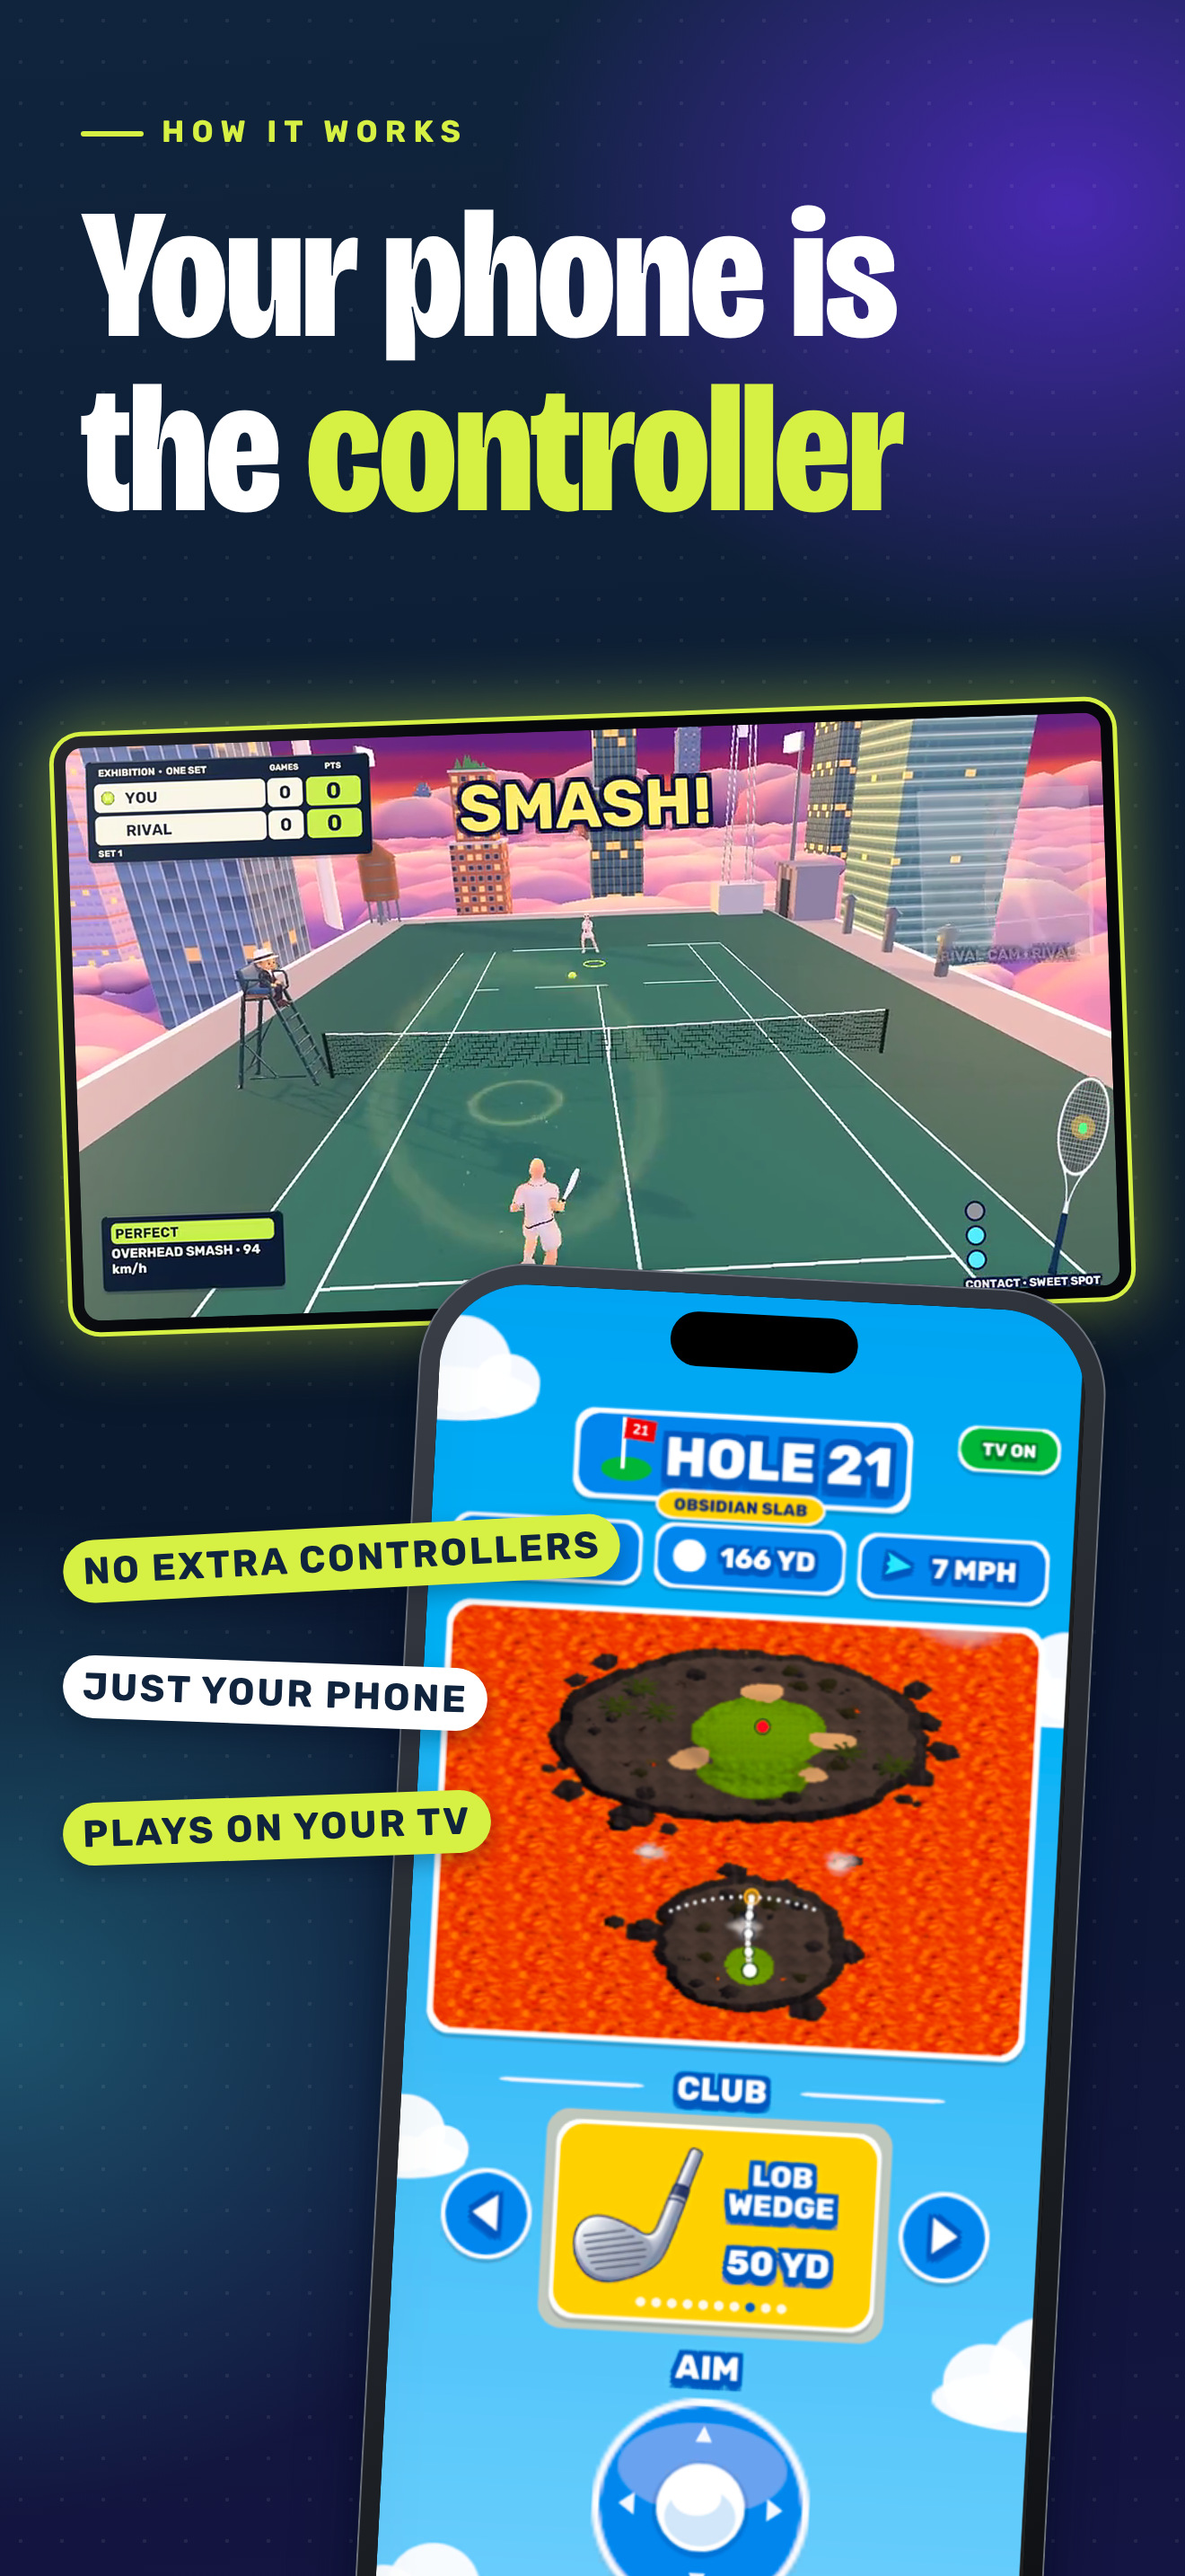
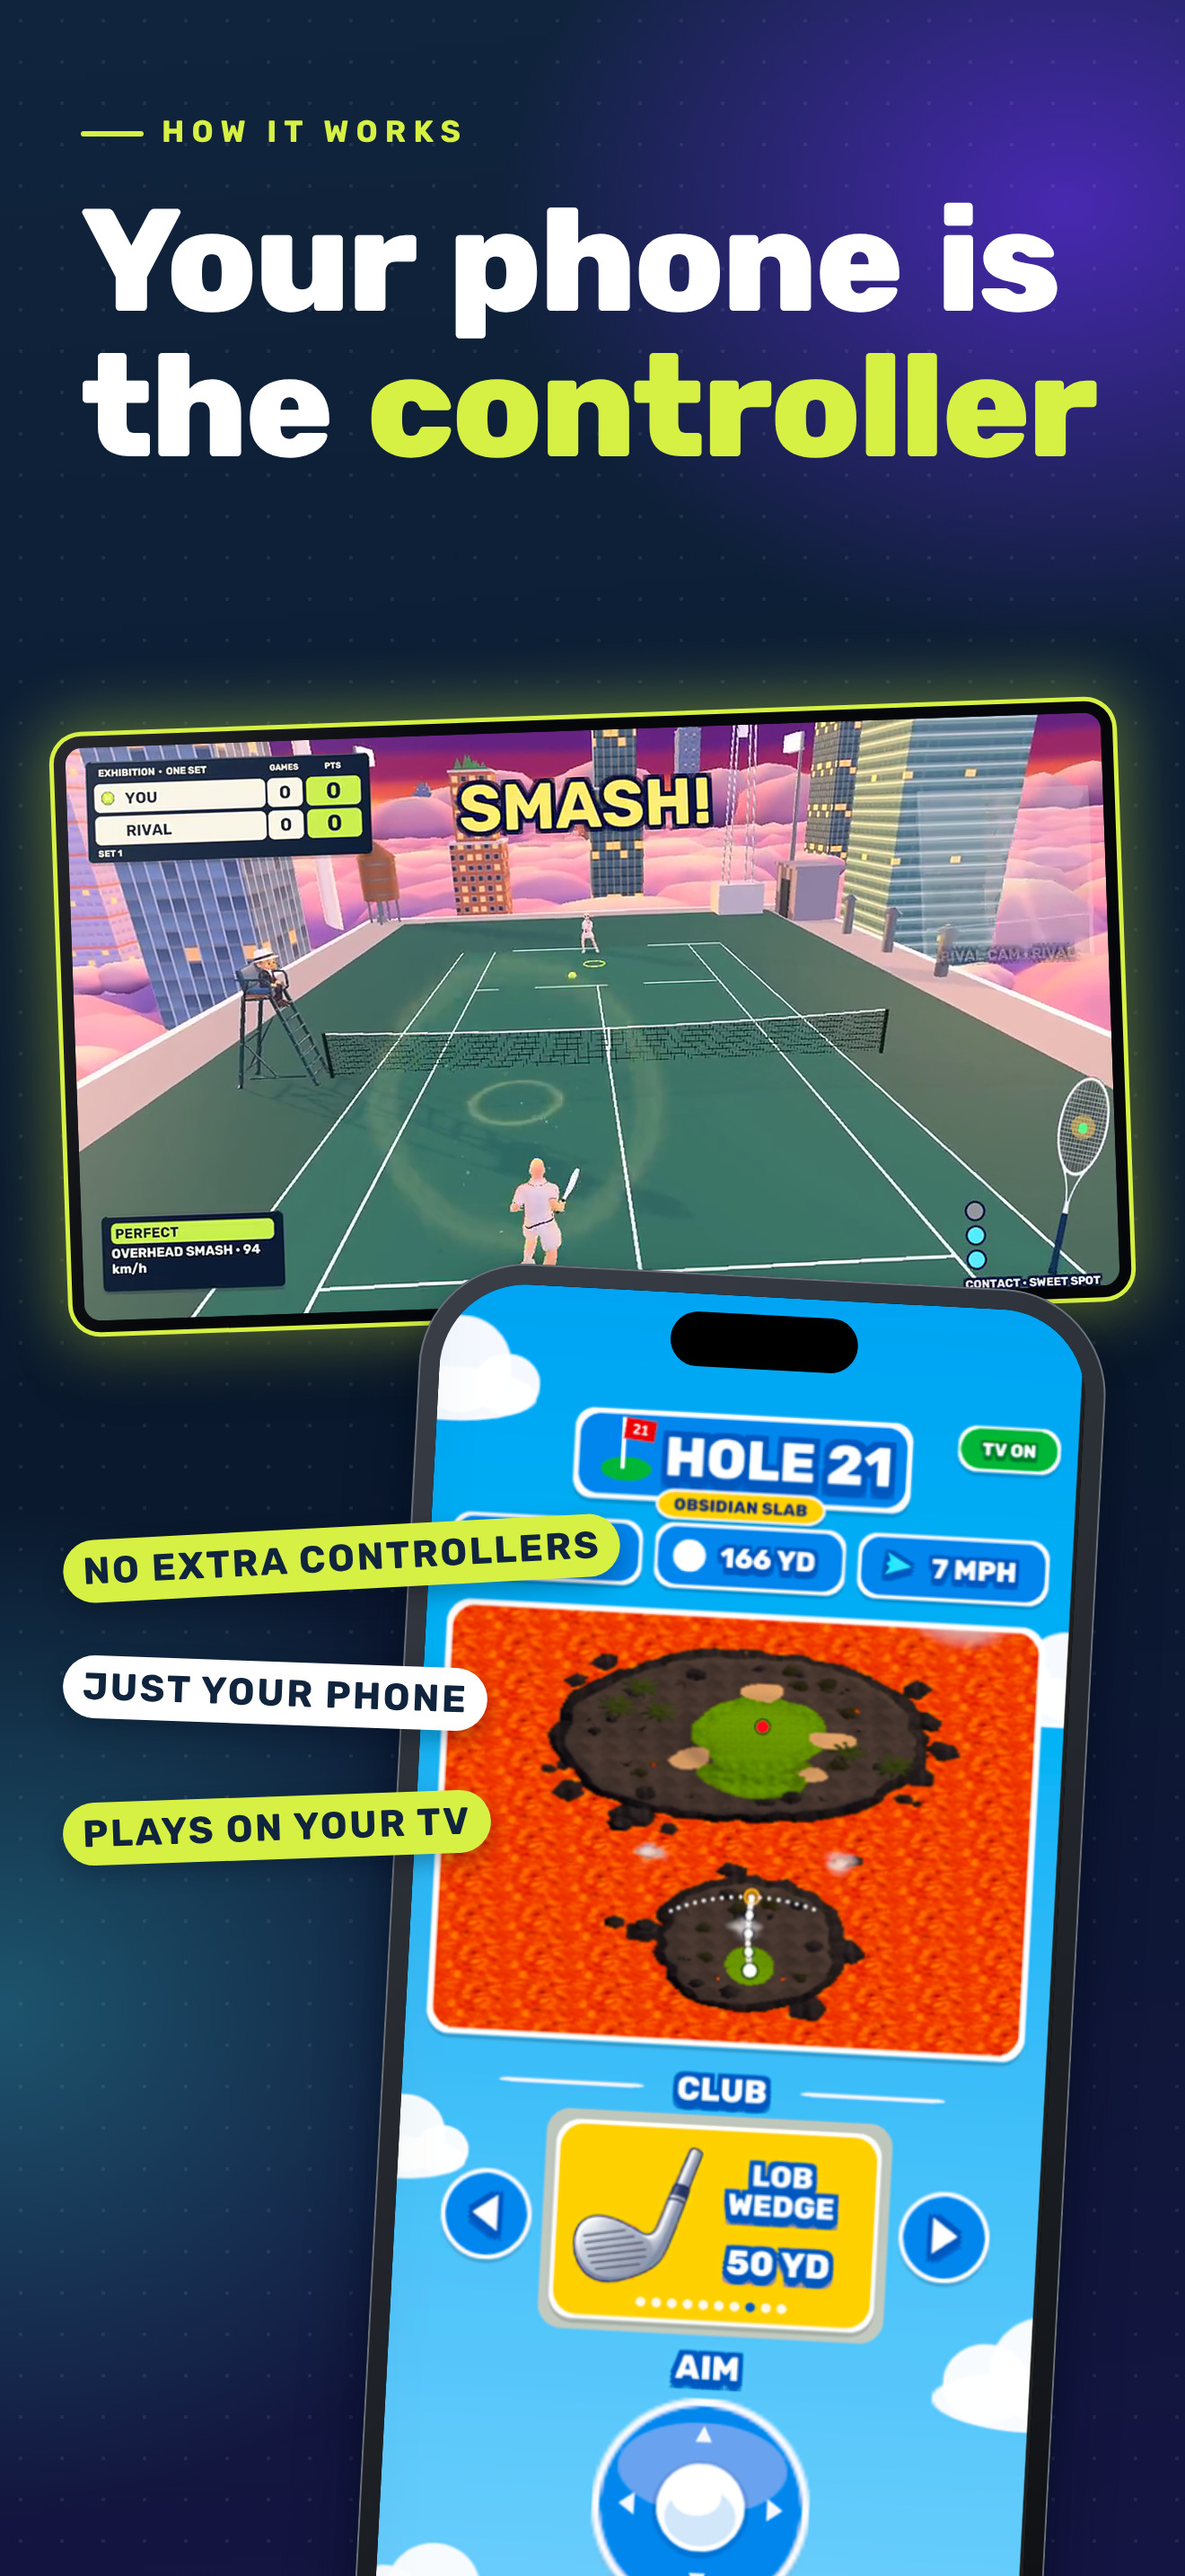
Headlines now use Rubik (the in-game HUD face) with the game's navy outline on Set C
Claude-Session: https://claude.ai/code/session_019tSd6nKXY8nrWno3MGZPU6

Changed region(s): [[0.0621, 0.0621, 0.9318, 0.2172]]

diff --git a/appstore/tools/build_screenshots.py b/appstore/tools/build_screenshots.py
@@ -98,7 +98,7 @@ A_CSS = """
 .wash{position:absolute;inset:0;background:linear-gradient(180deg,rgba(255,249,238,.97) 0,rgba(255,249,238,.93) 470px,rgba(255,249,238,.40) 980px,rgba(255,249,238,.05) 1500px)}
 .kick{position:absolute;left:90px;top:130px;font:700 34px/1 'Rubik';letter-spacing:.2em;color:#10243D;display:flex;align-items:center;gap:16px;text-transform:uppercase}
 .kick i{display:block;width:44px;height:44px;border-radius:50%;background:#D7F044;box-shadow:0 0 0 6px rgba(215,240,68,.35)}
-.hlA{left:90px;top:215px;font-family:'Bricolage';font-weight:800;font-size:196px;line-height:.96;letter-spacing:-3px;color:#10243D}
+.hlA{word-spacing:10px;left:90px;top:215px;font-family:'Rubik';font-weight:800;font-size:158px;line-height:1.0;letter-spacing:-3px;color:#10243D}
 .hlA mark{background:linear-gradient(180deg,transparent 58%,#D7F044 58%,#D7F044 92%,transparent 92%);color:inherit;padding:0 8px;margin:0 -8px}
 .pillA{background:#fff;color:#10243D;box-shadow:0 12px 30px rgba(16,36,61,.2)!important}
 .cap{position:absolute;left:0;right:0;bottom:0;padding:18px 20px;font:700 30px/1.1 'Rubik';color:#fff;background:linear-gradient(0deg,rgba(10,25,45,.8),rgba(10,25,45,0));text-align:left}
@@ -126,7 +126,7 @@ body{background:#0A192D}
 .dots{position:absolute;inset:0;background-image:radial-gradient(rgba(255,255,255,.07) 2px,transparent 2.5px);background-size:46px 46px}
 .kickB{position:absolute;left:90px;top:130px;font:700 34px/1 'Rubik';letter-spacing:.24em;color:#D7F044;text-transform:uppercase}
 .kickB::before{content:'';display:inline-block;width:70px;height:6px;background:#D7F044;vertical-align:middle;margin-right:20px;border-radius:9px}
-.hlB{left:90px;top:210px;font-family:'Bricolage';font-weight:800;font-size:206px;line-height:.94;letter-spacing:-3px;color:#fff}
+.hlB{word-spacing:10px;left:90px;top:210px;font-family:'Rubik';font-weight:800;font-size:166px;line-height:1.0;letter-spacing:-3px;color:#fff}
 .hlB em{font-style:normal;color:#D7F044}
 """
 B_BG = '<div class="bgB"></div><div class="dots"></div>'
@@ -140,12 +140,11 @@ def B_head(kicker, l1, l2):
 # SET C - "Party Pop": saturated blocks, sticker type, confetti
 # ======================================================================================
 C_CSS = """
-.hlC{left:80px;top:150px;font-family:'Bricolage';font-weight:800;font-size:222px;line-height:.92;letter-spacing:-3px;color:#fff;
- text-shadow:0 8px 0 rgba(16,36,61,.9);paint-order:stroke fill}
+.hlC{word-spacing:14px;left:80px;top:150px;font-family:'Rubik';font-weight:900;font-size:176px;line-height:1.0;letter-spacing:-3px;color:#fff;
+ -webkit-text-stroke:16px #10243D;paint-order:stroke fill;text-shadow:0 10px 0 #10243D}
 .hlC span{color:#D7F044}
-.hlC.dark{color:#10243D;text-shadow:0 8px 0 rgba(255,255,255,.7)}
-.hlC.dark span{color:#FF7556;text-shadow:0 8px 0 #10243D}
-.sticker{position:absolute;font-family:'Bricolage';font-weight:800;color:#10243D;background:#D7F044;border:10px solid #10243D;border-radius:38px;
+.hlC.dark span{color:#FF7556}
+.sticker{position:absolute;font-family:'Rubik';font-weight:800;color:#10243D;background:#D7F044;border:10px solid #10243D;border-radius:38px;
  box-shadow:14px 14px 0 #10243D;padding:18px 34px;z-index:9;line-height:1}
 """
 
@@ -174,7 +173,7 @@ def C_bg(c1, c2, pat="rgba(255,255,255,.14)"):
 def polaroid(path, label, x, y, w, ph, rot, pos="50% 30%", z=3):
     return (f'<div class="abs" style="left:{x}px;top:{y}px;width:{w}px;transform:rotate({rot}deg);background:#fff;padding:16px 16px 68px;border-radius:26px;'
             f'box-shadow:0 30px 50px rgba(5,12,28,.35);z-index:{z}"><div style="height:{ph}px;border-radius:12px;background:url({path}) {pos}/cover"></div>'
-            f'<div style="position:absolute;left:0;right:0;bottom:16px;text-align:center;font:800 38px \'Bricolage\';color:#10243D" class="ptitle">{label}</div></div>')
+            f'<div style="position:absolute;left:0;right:0;bottom:16px;text-align:center;font:800 36px \'Rubik\';color:#10243D" class="ptitle">{label}</div></div>')
 
 
 

diff --git a/appstore/tools/build_header_search.py b/appstore/tools/build_header_search.py
@@ -18,9 +18,9 @@ CTRL = f"{CUR}/golf-controller-artwork.png"
 
 HEAD_CSS = """
 .stage{position:absolute;left:0;top:0;width:1920px;height:1080px;transform:scale(2);transform-origin:0 0;overflow:hidden}
-.wm{position:absolute;left:110px;top:96px;display:flex;align-items:center;gap:22px;font:800 46px 'Bricolage';letter-spacing:-1px}
+.wm{position:absolute;left:110px;top:96px;display:flex;align-items:center;gap:22px;font:800 44px 'Rubik';letter-spacing:-1px}
 .wm img{width:92px;height:92px;filter:drop-shadow(0 8px 14px rgba(5,12,28,.35))}
-.h1{position:absolute;left:110px;top:270px;font-family:'Bricolage';font-weight:800;font-size:176px;line-height:.93;letter-spacing:-3px;white-space:nowrap}
+.h1{position:absolute;left:110px;top:270px;font-family:'Rubik';font-weight:800;font-size:140px;line-height:1.0;letter-spacing:-3px;white-space:nowrap}
 .sub{position:absolute;left:112px;top:640px;font:600 44px/1.25 'Rubik'}
 .pill{position:absolute;font:700 30px/1 'Rubik';letter-spacing:.08em;text-transform:uppercase;padding:18px 30px;border-radius:99px}
 """
@@ -46,7 +46,7 @@ def header(key):
     else:
         bg = C_bg("#FF8A63", "#E8506E") + confetti(21, n=34, area=(960, 20, 1900, 1060))
         txt, accent = "#fff", "color:#D7F044"
-        extra_css = ".h1{text-shadow:0 8px 0 rgba(16,36,61,.9)}"
+        extra_css = ".h1{font-weight:900;-webkit-text-stroke:14px #10243D;paint-order:stroke fill;text-shadow:0 8px 0 #10243D}"
         pills = (f'<div class="pill" style="left:112px;top:800px;background:{LIME};color:#10243D;border:6px solid #10243D;box-shadow:8px 8px 0 #10243D">Swing</div>'
                  f'<div class="pill" style="left:330px;top:800px;background:#fff;color:#10243D;border:6px solid #10243D;box-shadow:8px 8px 0 #10243D">Move</div>'
                  f'<div class="pill" style="left:560px;top:800px;background:#fff;color:#10243D;border:6px solid #10243D;box-shadow:8px 8px 0 #10243D">Play together</div>')

diff --git a/appstore/tools/render.py b/appstore/tools/render.py
@@ -29,7 +29,8 @@ html,body{overflow:hidden}
 body{font-family:'Rubik',sans-serif}
 .display{font-family:'Bricolage','Rubik',sans-serif;font-weight:800}
 /* the app sets its display face to wght 800, wdth 78, opsz = size (ClubDesign.swift) */
-.hlA,.hlB,.hlC,.h1,.wm,.sticker,.display,.nm,.ptitle{font-stretch:78%;font-optical-sizing:auto}
+/* NOTE: headlines now use Rubik (the in-game HUD face); Bricolage is kept only as .display for menu-title looks */
+.display{font-stretch:78%;font-optical-sizing:auto}
 """
 
 

diff --git a/appstore/tools/build_set_c.py b/appstore/tools/build_set_c.py
@@ -1,5 +1,5 @@
 """Set C v2 "Party Pop": colourful, with illustrated players enjoying the game in front of a TV.
-Fonts follow the app (Bricolage 800 / wdth 78 for display, Rubik for UI). Copy never limits the game to two sports."""
+Type follows the in-game HUD: Rubik Black with the navy outline used for moments like SMASH!. Copy never limits the game to two sports."""
 import sys
 from render import page, render, ROOT
 import build_screenshots as B

diff --git a/appstore/README.md b/appstore/README.md
@@ -23,5 +23,5 @@ art, early tennis clips and dev-review character renders are deliberately exclud
 - Phone UI captures are 402x874 and the clip frames are 960x540, upscaled (Lanczos + sharpen). Native captures will look crisper.
 - No Locker, Emotes or customization screen was available as a current capture, so none is shown.
 - **Set C's players are illustrated vector characters** drawn in-house (`tools/characters.py`) in the spirit of the in-game cast (round bald heads, game outfit colours). They are not renders of the game's 3D models. Polished AI-generated versions of the real characters were blocked by this environment's network policy (Higgsfield upload and result hosts), so that remains open.
-- **Type** follows the app: Bricolage Grotesque at weight 800, width 78 (condensed) for display, Rubik for UI (see `ClubDesign.swift`).
+- **Type** follows the in-game HUD: **Rubik** ExtraBold/Black, the face the game's HUD and moments like "SMASH!" use (`UiKit.cs`, `TennisJuice.cs`). Set C also copies the game's dark-navy outline treatment. Bricolage (the menu-title face) is intentionally not used for headlines.
 - Copy never states how many sports the game has.
